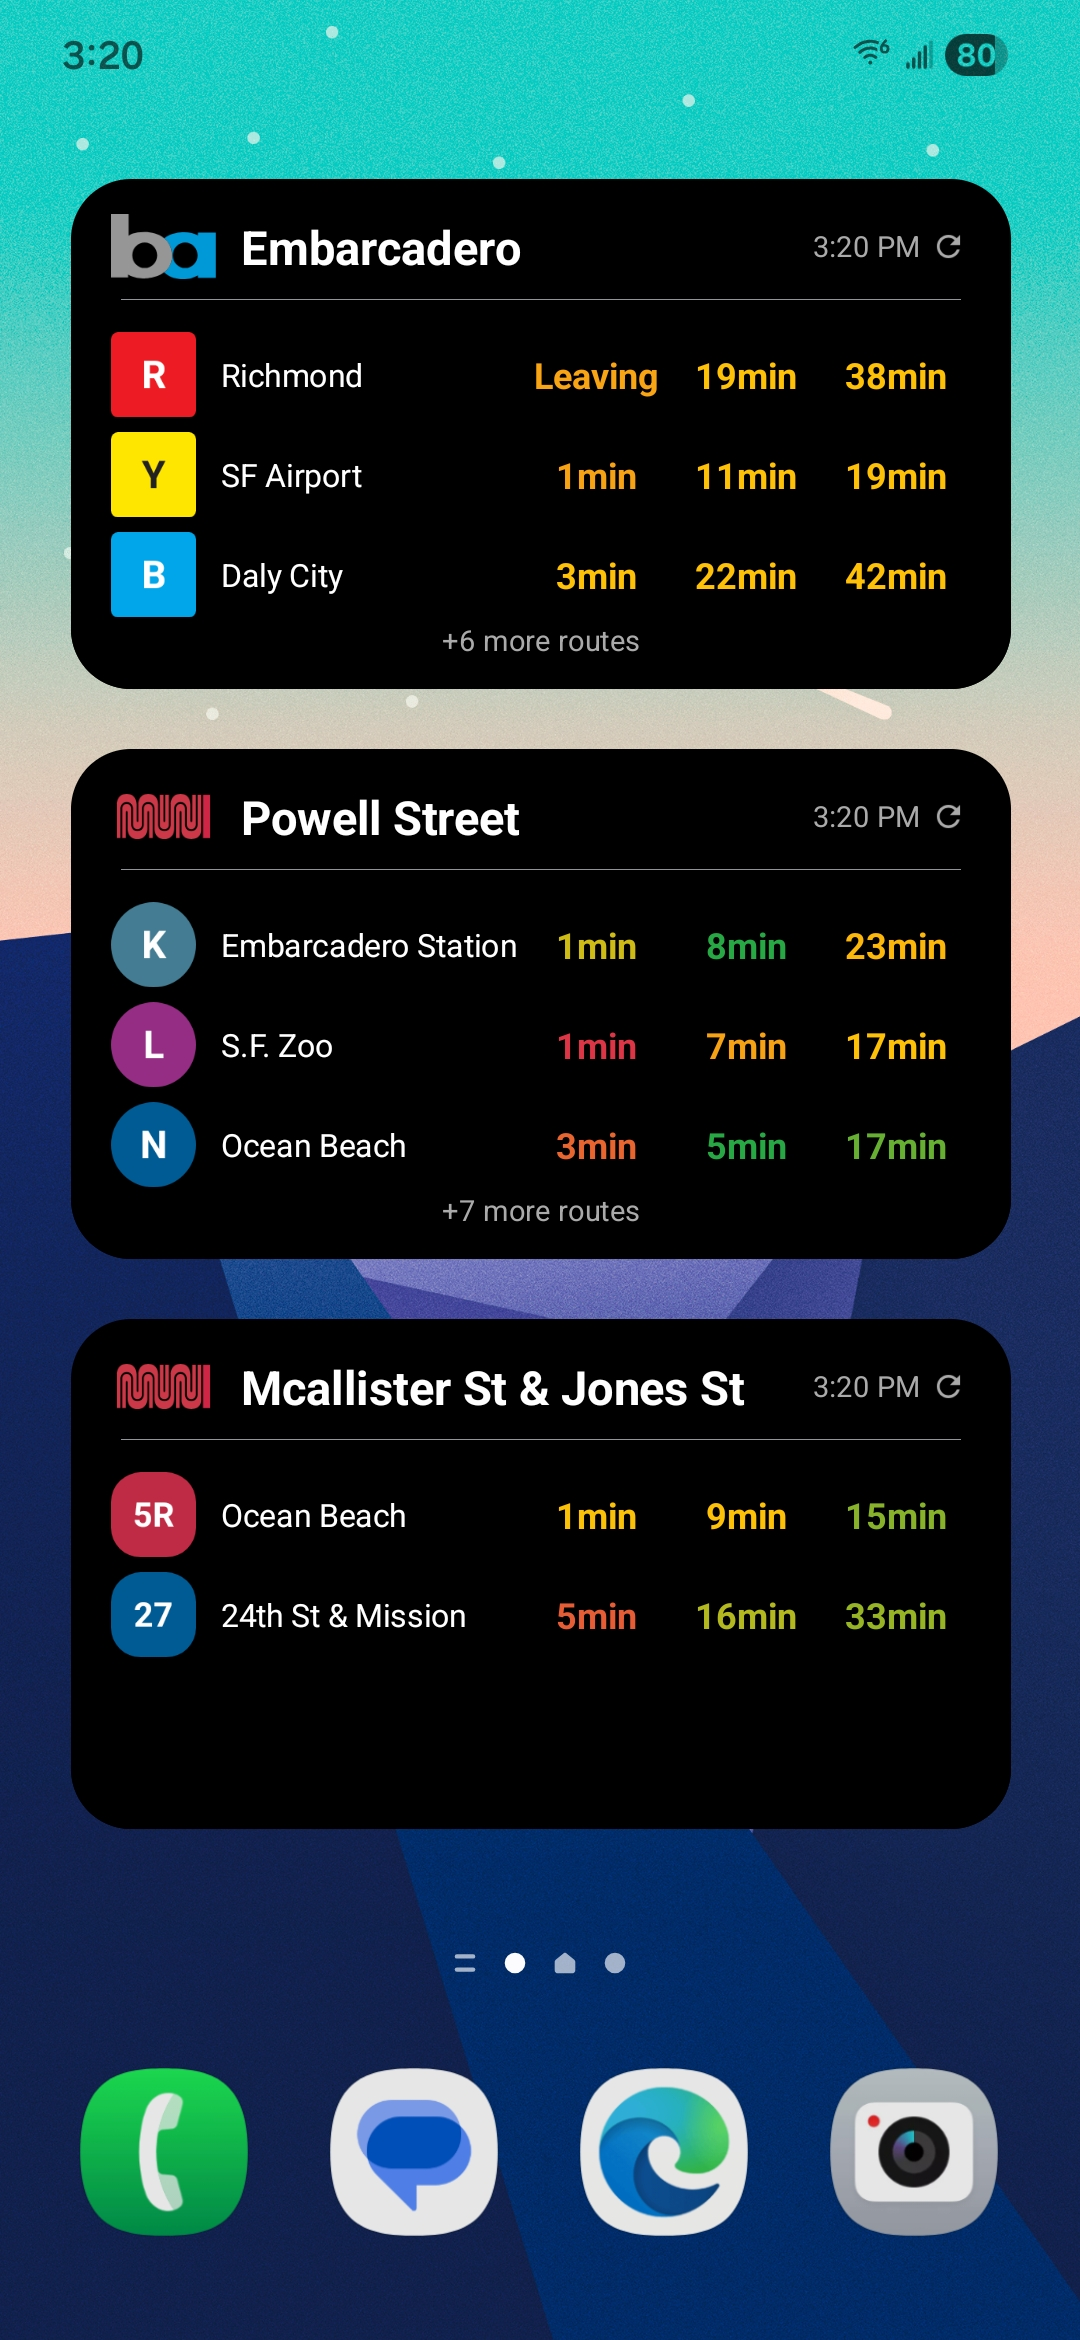
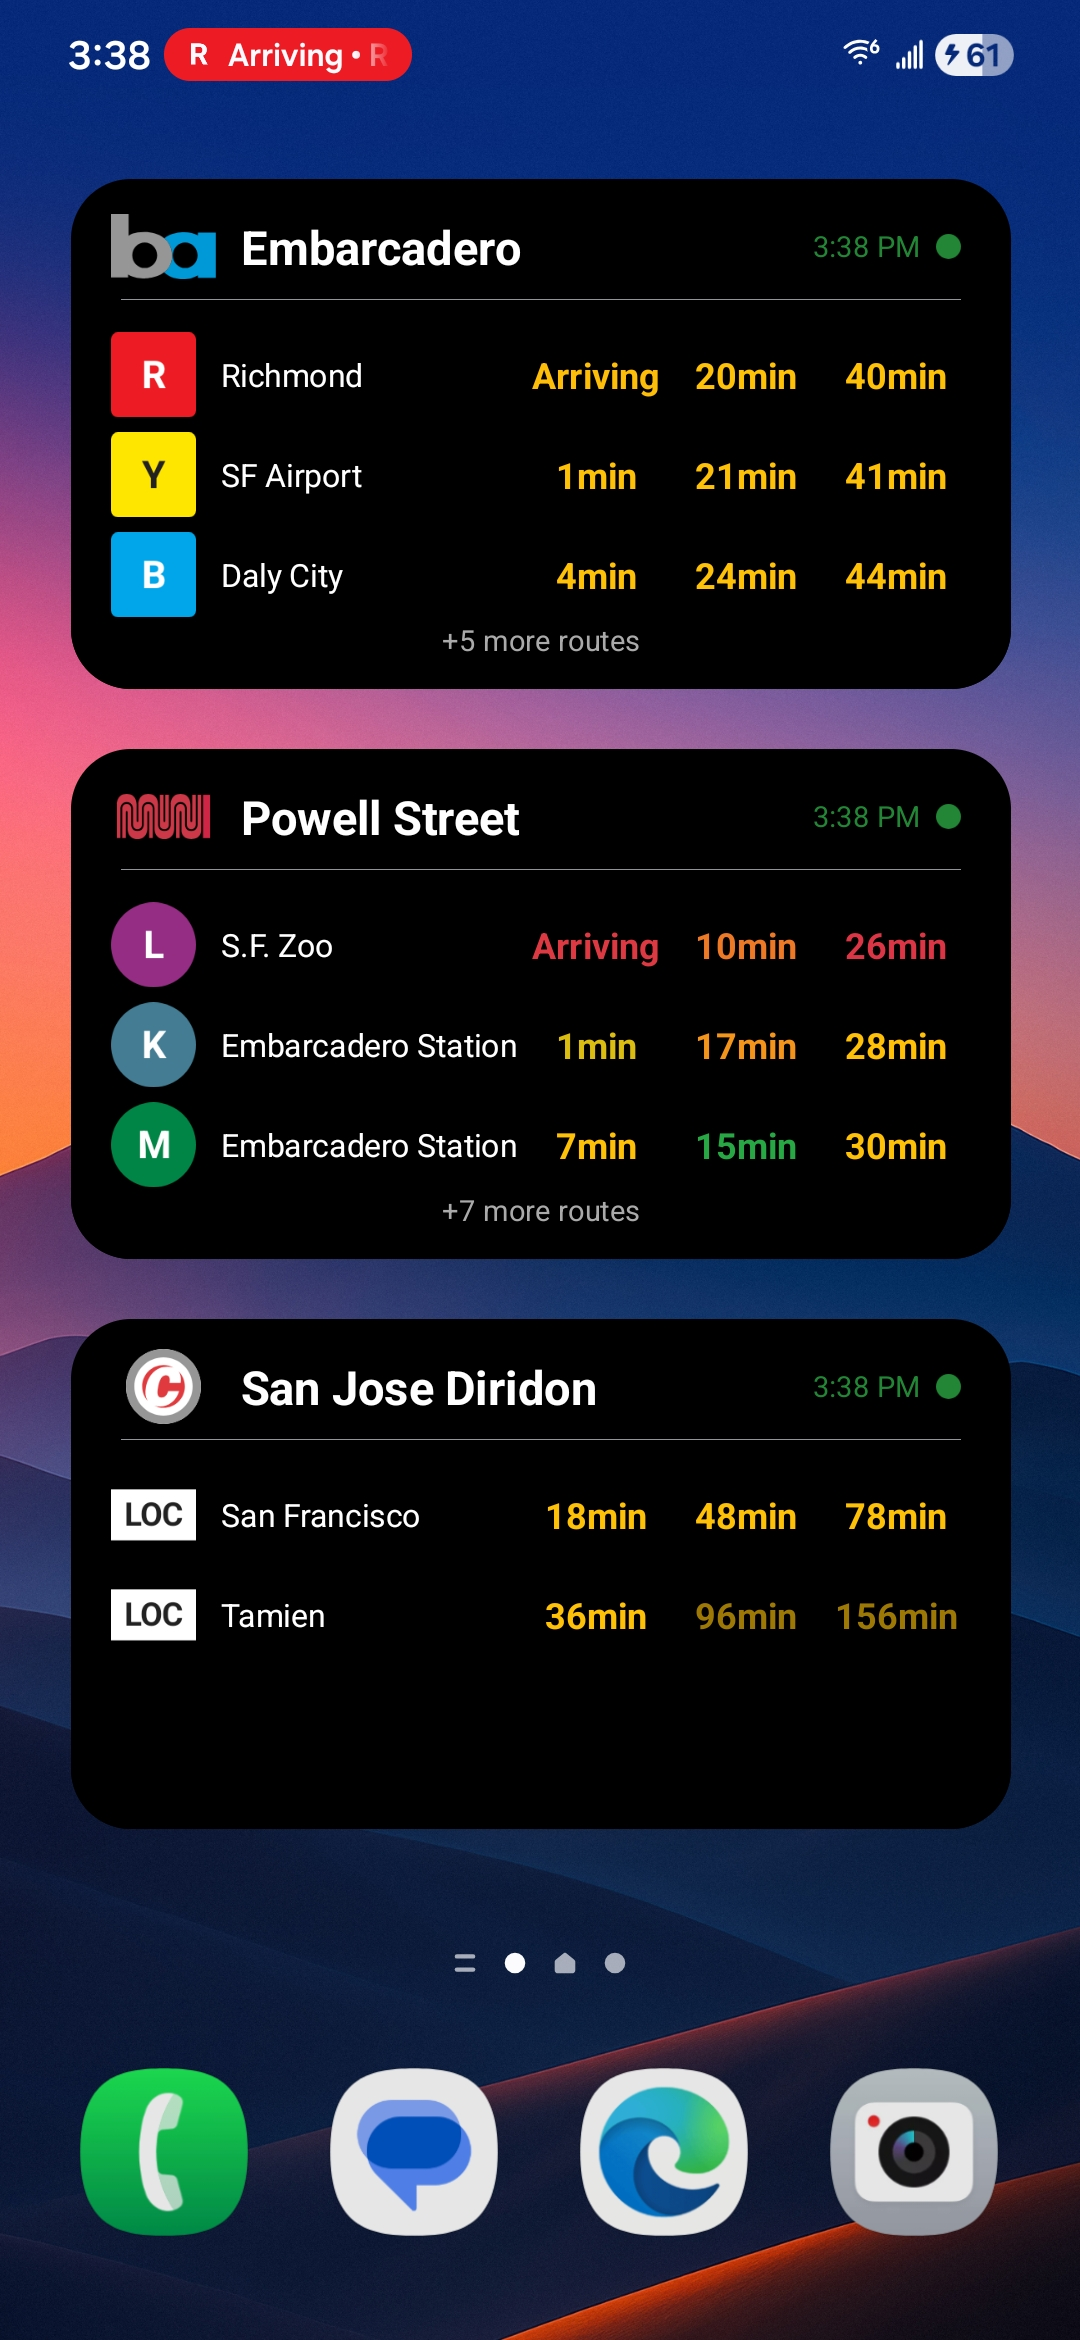
updating readme

diff --git a/README.md b/README.md
@@ -54,8 +54,12 @@ for filtering by specific headsigns, multiple display modes, and color-coded del
 - Tap the agency logo or station name to cycle between configured stops.
 - Tap the last refreshed timestamp area to toggle **Go Mode**.
 
-Note: The phone and watch will remain synced at all times. Triggering a refresh or toggling Go Mode
-on one device will update the other.
+**Notes**
+
+- The phone and watch will remain synced at all times. Triggering a refresh or toggling Go Mode
+  on one device will update the other.
+- Activating Go Mode will spawn a live notification in the status bar and on the watch face that
+  shows information about the next departure.
 
 ## How to install
 
